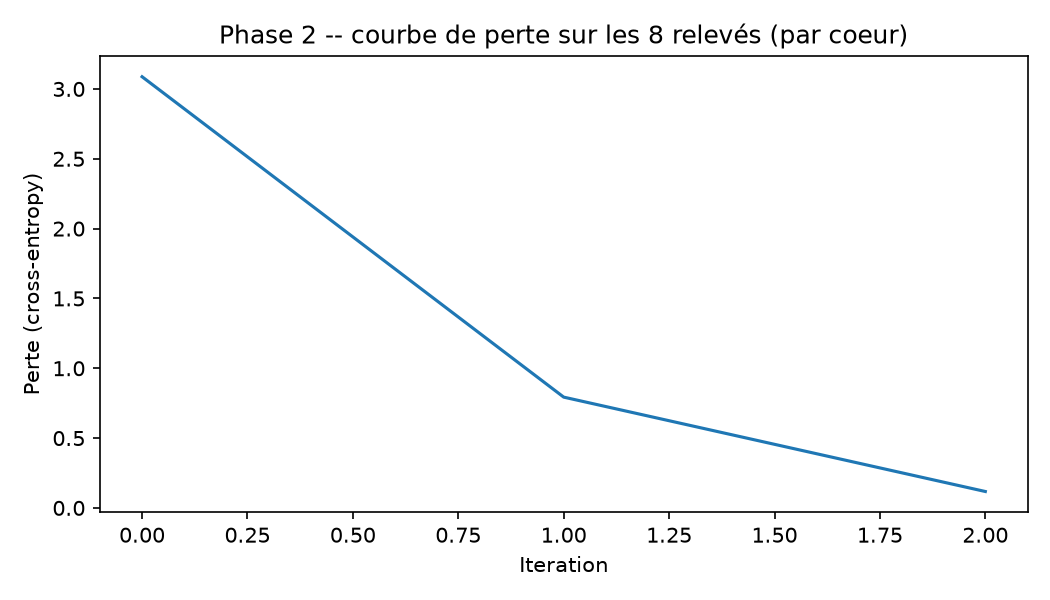
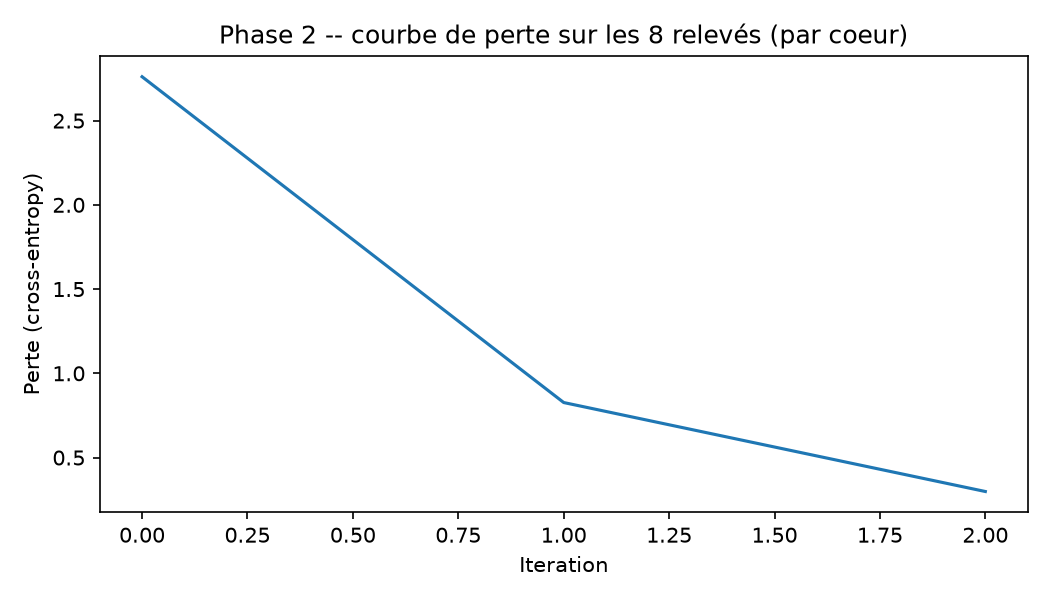
ModeleConv : dropout + pooling max+moyenne (le max-pool seul perdait contre le lineaire)

diff --git a/modele.py b/modele.py
@@ -28,12 +28,15 @@ class ModeleConv(nn.Module):
     `noyau` mots), ce qu'un comptage ne voit jamais.
     """
 
-    def __init__(self, taille_vocab, n_classes, dim_embed=64, dim_cachee=128, noyau=3):
+    def __init__(self, taille_vocab, n_classes, dim_embed=100, dim_cachee=128, noyau=3, dropout=0.4):
         super().__init__()
         self.embed = nn.Embedding(taille_vocab, dim_embed, padding_idx=0)
         self.conv = nn.Conv1d(dim_embed, dim_cachee, kernel_size=noyau, padding=noyau // 2)
         self.norme = nn.BatchNorm1d(dim_cachee)
-        self.sortie = nn.Linear(dim_cachee, n_classes)
+        self.dropout = nn.Dropout(dropout)
+        # max-pool ET moyenne-pool concatenes : le max retient le mot le plus
+        # saillant, la moyenne retient le ton general de la phrase.
+        self.sortie = nn.Linear(dim_cachee * 2, n_classes)
 
     def forward(self, sequences):
         x = self.embed(sequences)  # (batch, longueur, dim_embed)
@@ -41,5 +44,8 @@ class ModeleConv(nn.Module):
         x = self.conv(x)  # (batch, dim_cachee, longueur)
         x = self.norme(x)
         x = torch.relu(x)
-        x, _ = x.max(dim=2)  # max-pool global sur la longueur -> (batch, dim_cachee)
+        x_max, _ = x.max(dim=2)
+        x_moy = x.mean(dim=2)
+        x = torch.cat([x_max, x_moy], dim=1)
+        x = self.dropout(x)
         return self.sortie(x)
